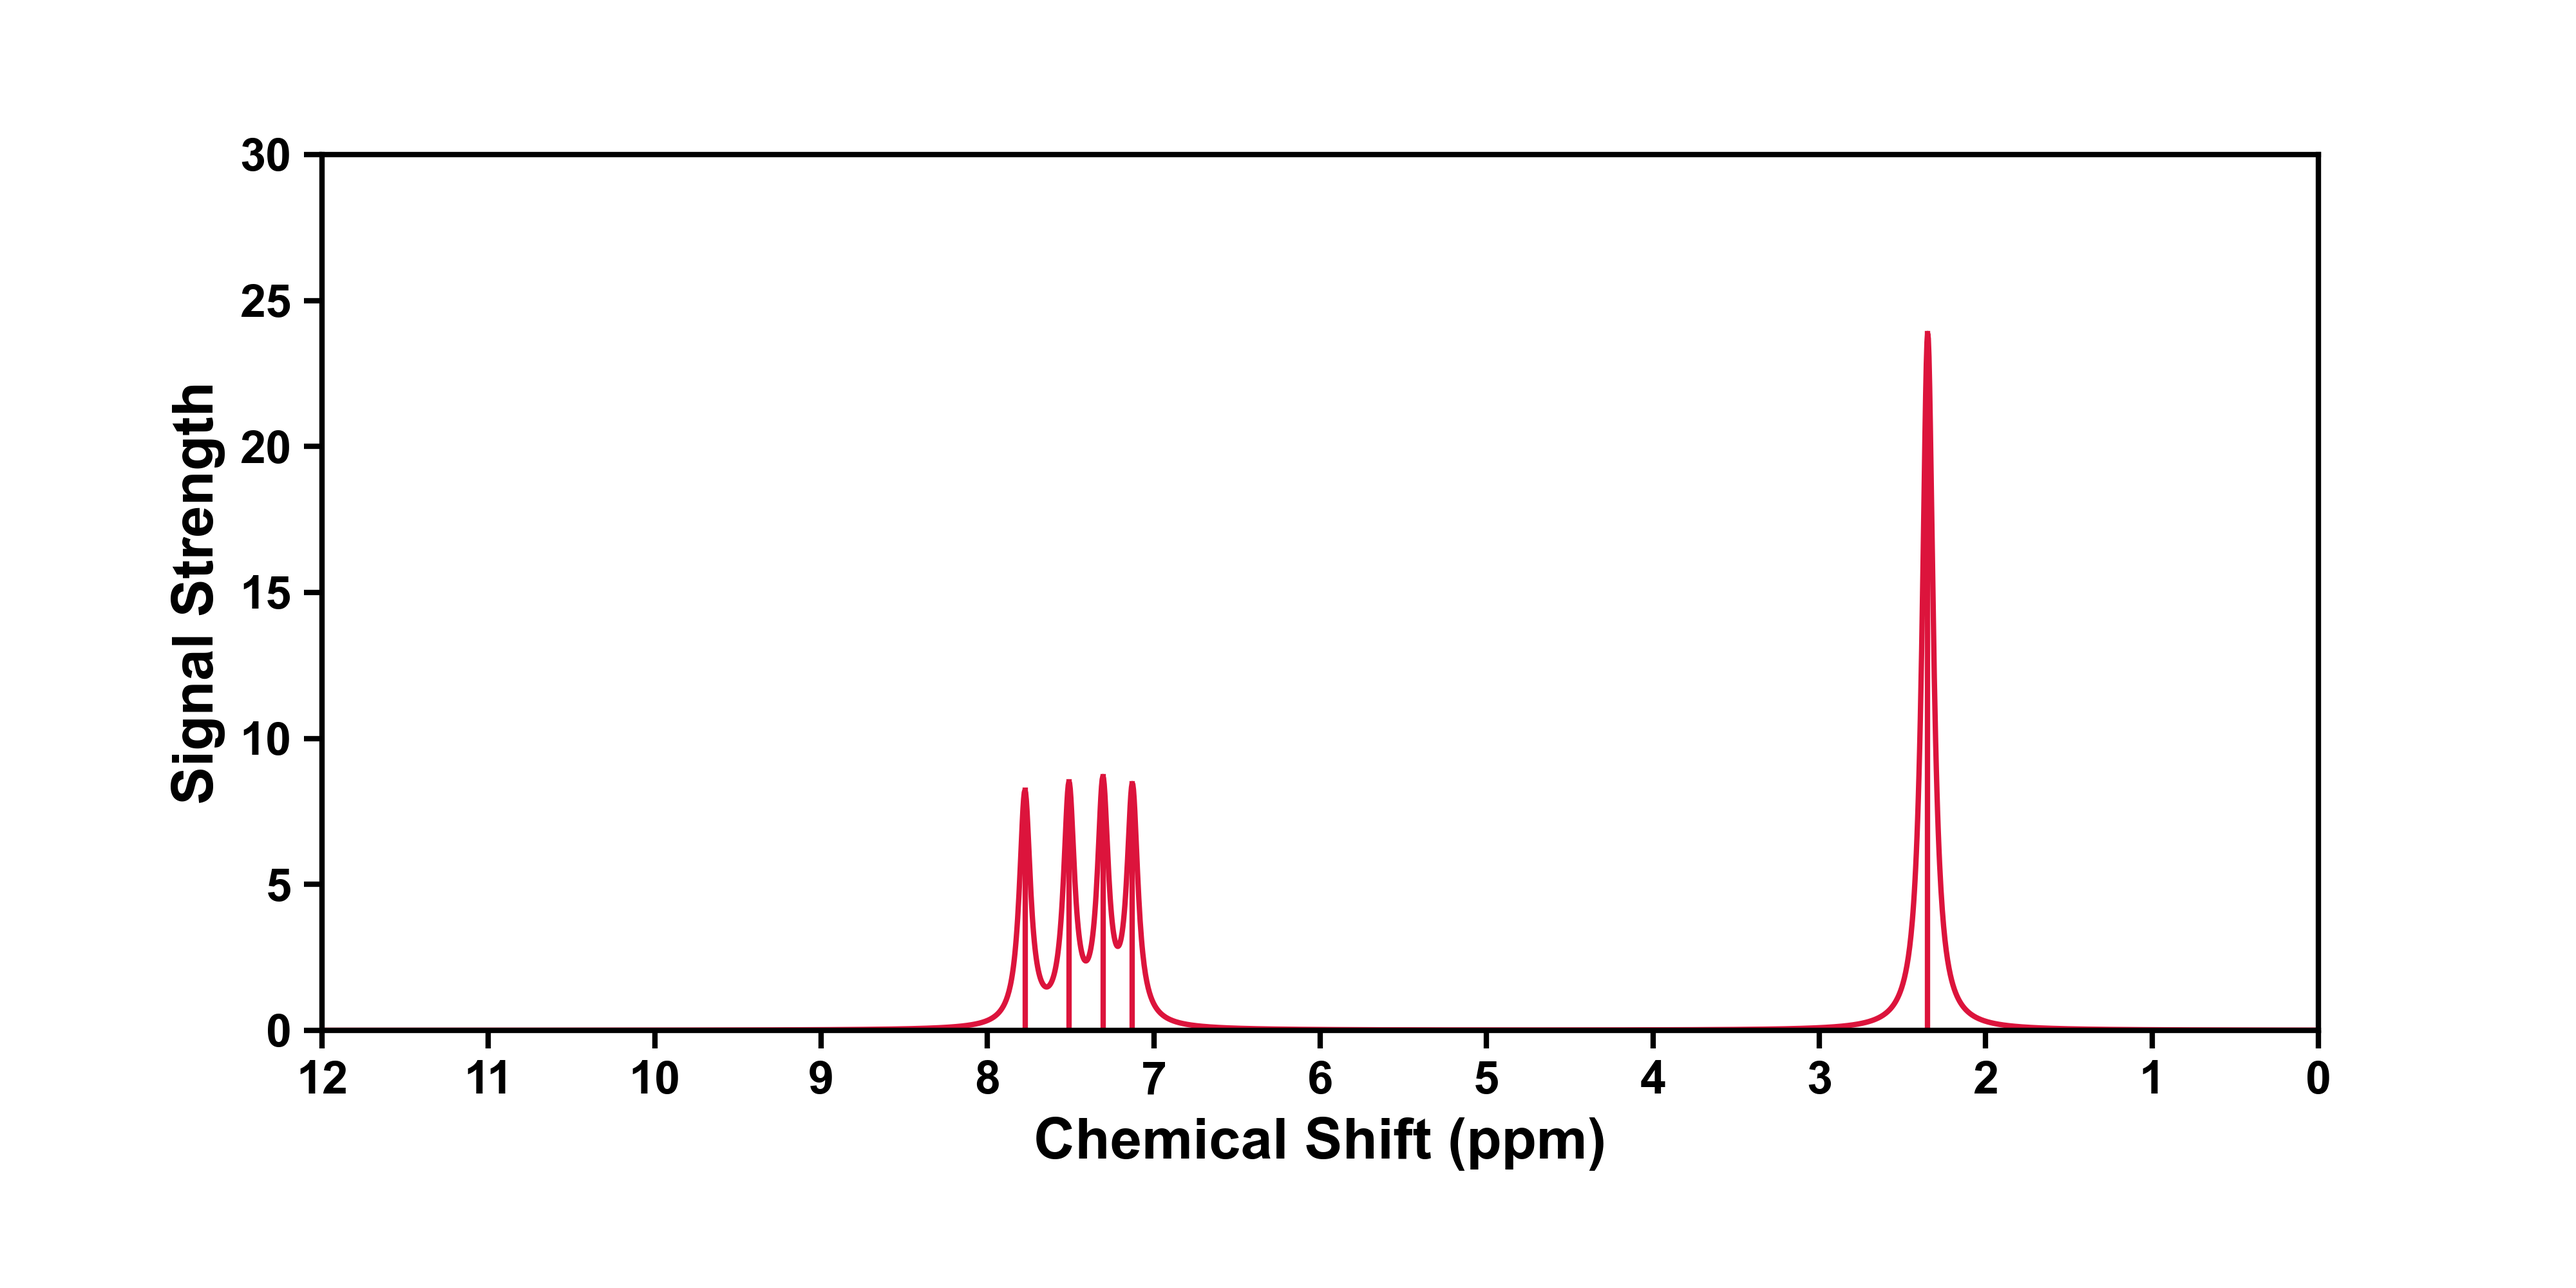
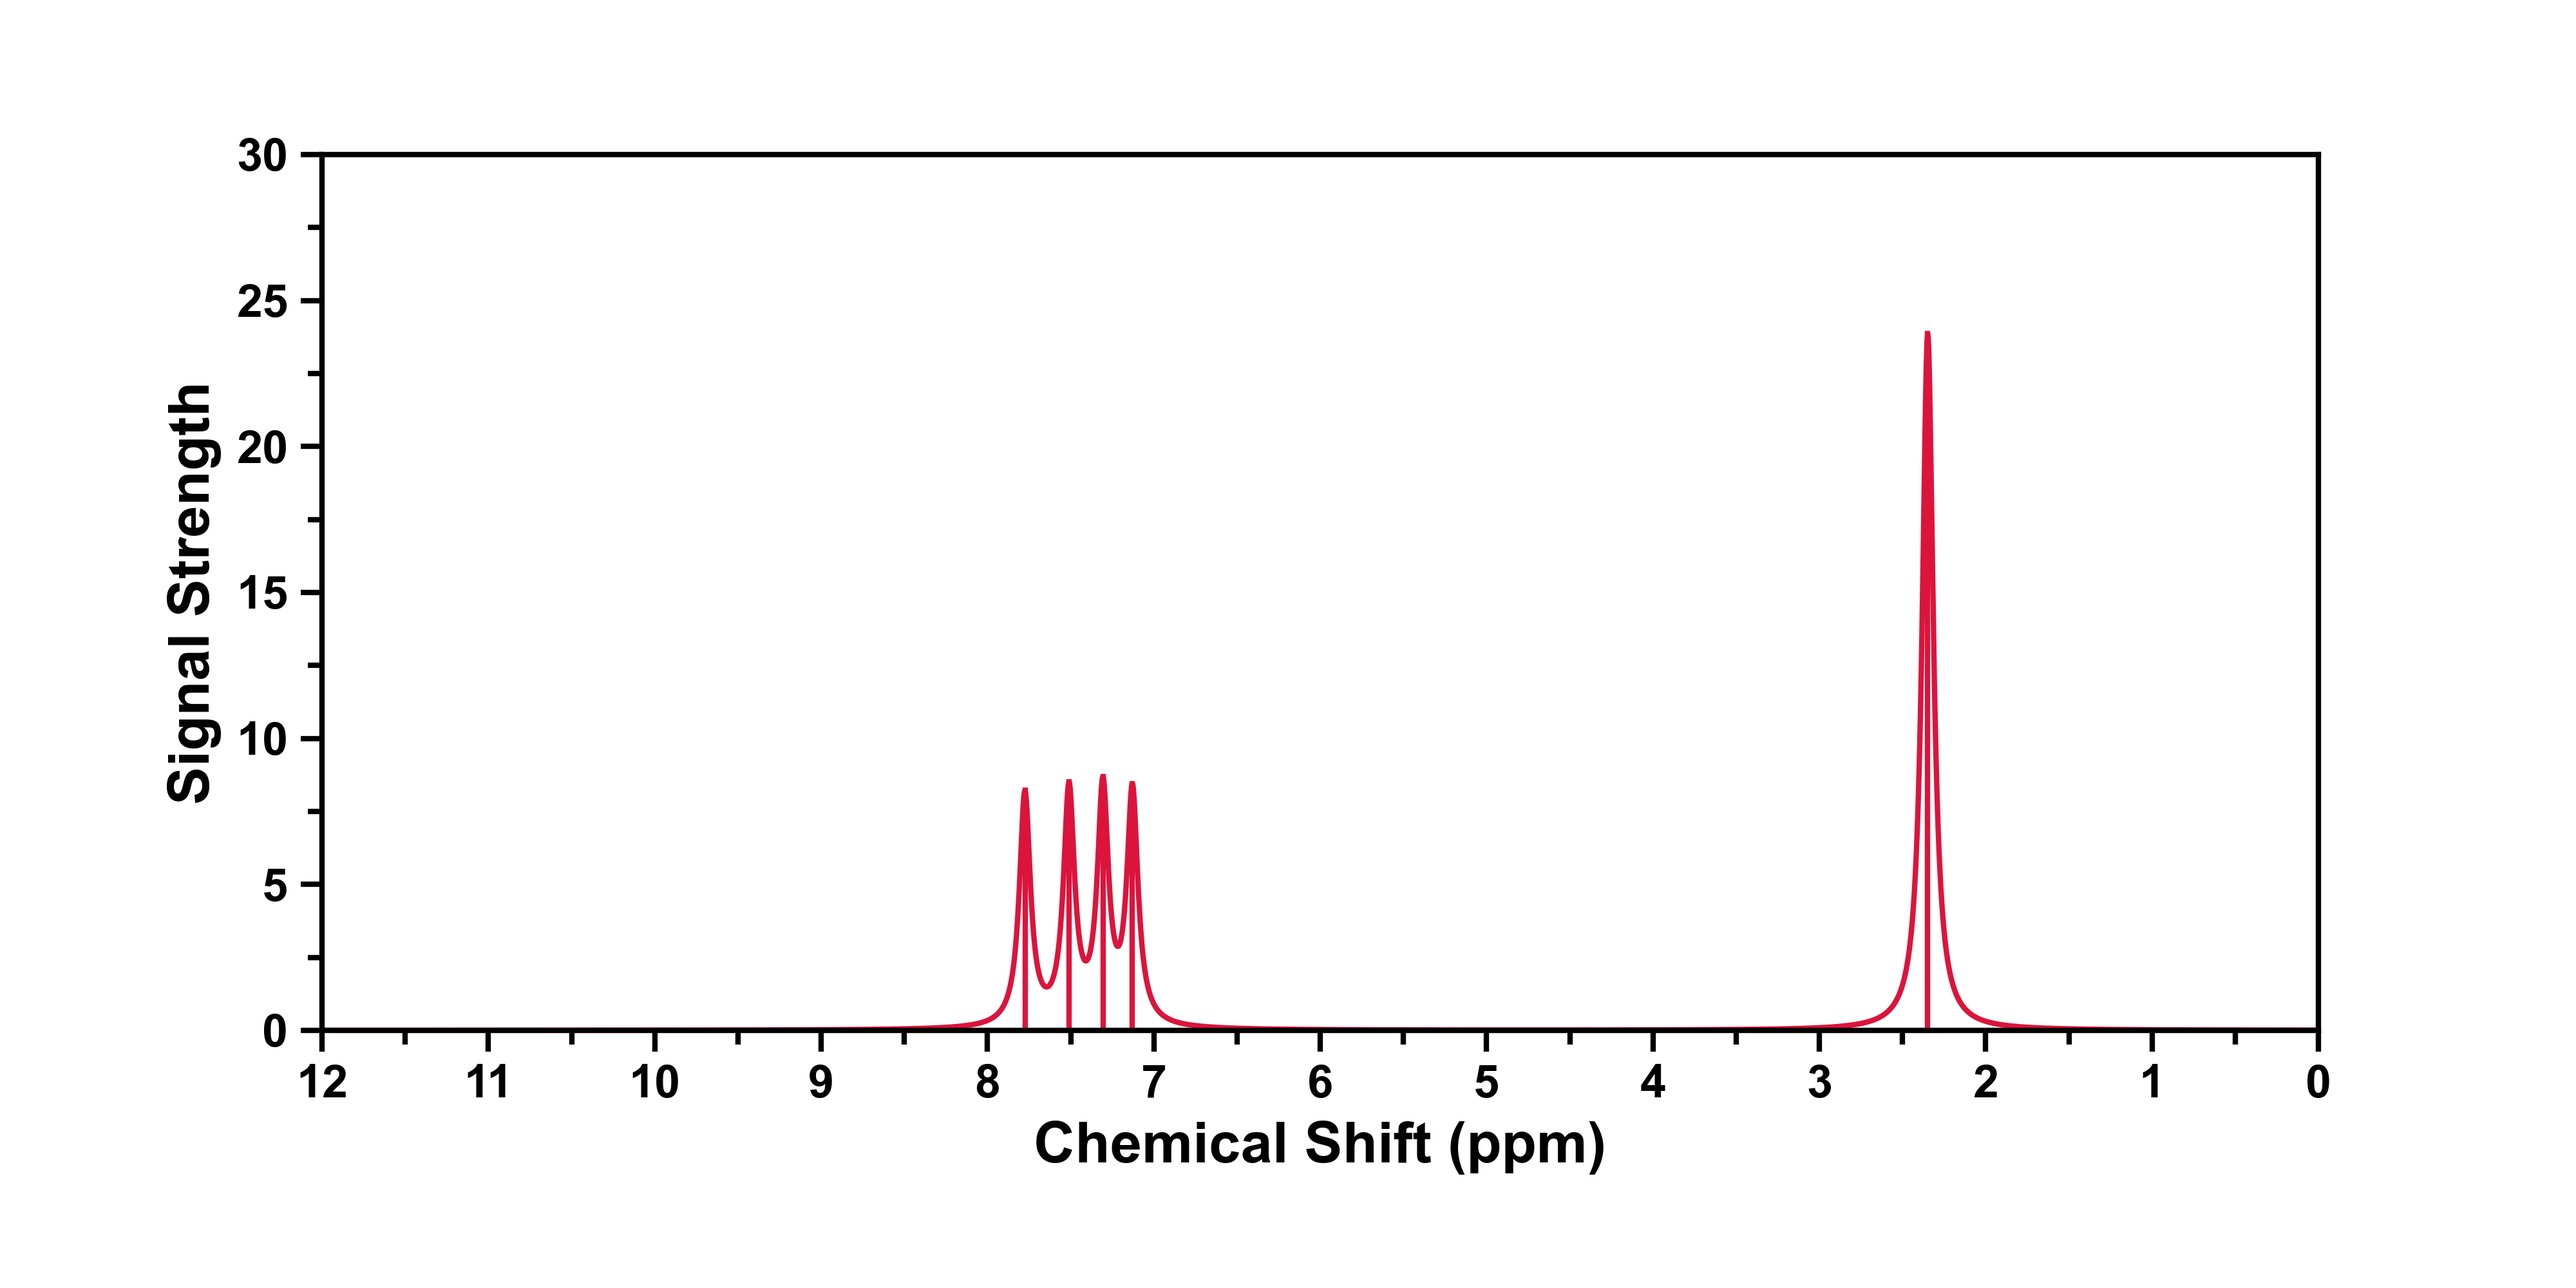
update readme

diff --git a/src/Spectrum/spectrum_NMR.py b/src/Spectrum/spectrum_NMR.py
@@ -1,6 +1,6 @@
+import numpy as np
 from matplotlib import pyplot as plt
 from matplotlib.ticker import MultipleLocator
-from pandas import DataFrame
 from scipy import signal
 
 from src.Spectrum.spectrum import Spectrum
@@ -9,11 +9,17 @@ from src.Spectrum.spectrum import Spectrum
 class NMRSpectrum(Spectrum):
     def __init__(self):
         super().__init__('NMR')
+        # 设置默认 NMR config
+        self.set_x_limits(12, 0, 1)
+        self.set_y_limits(0, 30, 5)
+        self.set_figure_size(10, 5)
+        self.set_curve_colors("#DC143C")
+        self.set_spike_colors("#DC143C")
+        self.set_save_format("png")
 
-    def plot_spectrum(self, dataframe: DataFrame):
+    def plot_spectrum(self):
         """
         将谱图绘制出来
-        :param dataframe: pandas dataframe
         :return: fig ax
         """
         # 设置全局字体、字重和轴线宽度
@@ -22,13 +28,6 @@ class NMRSpectrum(Spectrum):
             'font.weight': 'bold',
             'axes.linewidth': 1.5
         })
-        # 设置默认 NMR config
-        self.set_x_limits(12, 0, 1)
-        self.set_y_limits(0, 30, 5)
-        self.set_figure_size(10, 5)
-        self.set_curve_colors("#DC143C")
-        self.set_spike_colors("#DC143C")
-        self.set_save_format("png")
 
         # 创建画布和子图对象
         fig, ax = plt.subplots(figsize=self.figure_size, dpi=400)
@@ -44,8 +43,12 @@ class NMRSpectrum(Spectrum):
         ax.xaxis.set_major_locator(x_locator)
         ax.yaxis.set_major_locator(y_locator)
 
+        ax.xaxis.set_minor_locator(MultipleLocator(self.x_limits[2] / 2))
+        ax.yaxis.set_minor_locator(MultipleLocator(self.y_limits[2] / 2))
+
         # 设置 x、y 轴的刻度标签和字体大小
-        ax.tick_params(axis='both', which='major', labelsize=13, width=1.5, length=5)
+        ax.tick_params(axis='both', which='major', labelsize=13, width=1.5, length=6)
+        ax.tick_params(axis='both', which='minor', width=1.5, length=4)
         # 将刻度标签加粗
         for label in ax.xaxis.get_ticklabels():
             label.set_fontweight('bold')
@@ -53,11 +56,12 @@ class NMRSpectrum(Spectrum):
             label.set_fontweight('bold')
 
         # 绘制 curve
-        ax.plot(dataframe['x'], dataframe['y'], linewidth=1.5, color=self.curve_colors)
+        ax.plot(self.dataframe['x'], self.dataframe['y'], linewidth=1.5, color=self.curve_colors)
         # 绘制 spike
-        peaks, _ = signal.find_peaks(dataframe['y'])
+        peaks, _ = signal.find_peaks(self.dataframe['y'])
         for i in peaks:
-            ax.plot([dataframe['x'][i], dataframe['x'][i]], [0, dataframe['y'][i]], color=self.spike_colors, linewidth=1.5)
+            ax.plot([self.dataframe['x'][i], self.dataframe['x'][i]], [0, self.dataframe['y'][i]],
+                    color=self.spike_colors, linewidth=1.5)
 
         # 添加坐标轴标签
         ax.set_xlabel('Chemical Shift (ppm)', fontweight='bold', fontsize=16)
@@ -67,6 +71,5 @@ class NMRSpectrum(Spectrum):
         fig.subplots_adjust(bottom=0.2)
 
         return fig, ax
-
 
 

diff --git a/src/Spectrum/spectrum.py b/src/Spectrum/spectrum.py
@@ -1,9 +1,11 @@
+import numpy as np
 from pandas import DataFrame
 
 
 class Spectrum:
     def __init__(self, spectrum_type):
         self.spectrum_type = spectrum_type
+        self.dataframe = None
         self.x_limits = None
         self.y_limits = None
         self.figure_size = None
@@ -11,15 +13,22 @@ class Spectrum:
         self.spike_colors = None
         self.save_format = None
 
-    def plot_spectrum(self, dataframe: DataFrame):
+    def load_dataframe(self, dataframe):
+        """
+        load dataframe in the spectrum
+        :param dataframe: dataframe to load
+        :return:
+        """
+        self.dataframe = dataframe
+
+    def plot_spectrum(self):
         """
         将谱图绘制出来
-        :param dataframe: pandas dataframe
         :return: fig ax
         """
         raise NotImplementedError
 
-    def set_x_limits(self, lower, upper, spacing):
+    def set_x_limits(self, lower=None, upper=None, spacing=None):
         """
         设置 X 轴的上下限
         :param lower: 下限
@@ -30,7 +39,7 @@ class Spectrum:
         self.x_limits = (lower, upper, spacing)
         print(f'Setting X-axis limits to ({lower}, {upper}, {spacing})...')
 
-    def set_y_limits(self, lower, upper, spacing):
+    def set_y_limits(self, lower=None, upper=None, spacing=None):
         """
         设置 Y 轴的上下限
         :param lower: 下限
@@ -38,6 +47,7 @@ class Spectrum:
         :param spacing: 刻度间隔
         :return:
         """
+
         self.y_limits = (lower, upper, spacing)
         print(f'Setting Y-axis limits to ({lower}, {upper}, {spacing})...')
 
@@ -77,5 +87,4 @@ class Spectrum:
         """
         self.save_format = format_type
         print(f'Setting save format to {format_type}...')
-
 

diff --git a/src/Spectrum/spectrum_IR.py b/src/Spectrum/spectrum_IR.py
@@ -6,20 +6,6 @@ from src.Spectrum.spectrum import Spectrum
 
 class IRSpectrum(Spectrum):
     def __init__(self):
-        super().__init__('NMR')
+        super().__init__('IR')
 
-    def plot_spectrum(self, dataframe: DataFrame):
-        # 将 NMR 谱图绘制出来
-        # 设置全局字体、字重和轴线宽度
-        plt.rcParams.update({
-            'font.family': 'Arial',
-            'font.weight': 'bold',
-            'axes.linewidth': 1.5
-        })
 
-        # 创建画布和子图对象
-        fig, ax = plt.subplots(figsize=self.figure_size)
-
-        fig.plot(dataframe['x'], dataframe['y'])
-
-        return fig, ax

diff --git a/tests/test_spectrum.py b/tests/test_spectrum.py
@@ -5,7 +5,9 @@ from src.Spectrum.spectrum_factory import SpectrumFactory
 def test():
     data = ParserFactory.create_parser("../data/NMR_curvewei.txt").parse()
     print(data)
-    fig, ax = SpectrumFactory.create_spectrum("NMR").plot_spectrum(data)
+    nmr_spectrum = SpectrumFactory.create_spectrum("NMR")
+    nmr_spectrum.load_dataframe(data)
+    fig, ax = nmr_spectrum.plot_spectrum()
     fig.show()
 
 

diff --git a/README.md b/README.md
@@ -3,6 +3,68 @@
 </h1><br>
 
 
-KimariDraw 是一个用来绘制 NMR、IR 等光谱的 Python 程序。
+KimariDraw 是一款基于 Python 开发的开源绘图软件，主要用来处理著名波函数分析程序 [Multiwfn](http://sobereva.com/multiwfn/) 绘制光谱产生的数据，并依据这些数据重新绘制相对美观的各种光谱图。有关 Multiwfn 的
+
+KimariDraw 目前支持使用 Multiwfn 绘制 NMR、IR 等光谱导出的曲线数据，即 Multiwfn 生成的文本文件，也支持 Excel 文件（必须安装约定进行配置）。KimariDraw 可支持修改图片大小、保存格式、曲线颜色等功能。
+
+## 安装
+
+本项目已经开源在 Github 上，您可以通过以下步骤安装 KimariDraw：
+
+1. 首先，您需要确保已经安装了 Python 环境和 pip 包管理工具。如果您还没有安装它们，请先安装它们。
+
+2. 下载 KimariDraw 源代码：
+
+```shell
+git clone https://github.com/kimariyb/kimariDraw.git
+```
+
+3. 进入 KimariDraw 目录并安装依赖：
+
+```shell
+cd kimariPlot
+pip install -r requirements.txt
+```
+这将自动安装 KimariDraw 所需的 numpy、matplotlib 和 scipy 等依赖项。请注意，如果您已经安装了这些依赖项，则可以跳过此步骤。
+
+## 使用
+
+要使用 KimariDraw，请执行以下步骤：
+
+**请注意：在正式运行前，请确保已经安装了 Python 和 pip 包管理工具，以免程序报错！**
+
+1. 在命令行中导航到 KimariDraw 目录。
+
+2. 运行 main.py：
+
+```shell
+python main.py
+```
+
+3. 输入 Multiwfn 输出的文本文件 `.txt` 或 Excel 文件 `.xlsx` 的路径。例如本项目中的 `data\NMR_curvewei.txt` 文件。
+
+```shell
+data/NMR_curvewei.txt
+```
+
+4. 选择 `1. NMR`，绘制 NMR 谱。
+
+<img src="figure/nmr.png">
+
+## 鸣谢
+
+在开发 KimariDraw 时，主要使用了以下 Python 开源模组，在这里对开发这些模组的工作人员表示感谢。
+
+- **numpy**
+- **pandas**
+- **matplotlib**
+- **openpyxl**
+- **scipy**
+
+同时也感谢 Multiwfn 和其开发者卢天老师，为众多计算化学玩家带来这样一款，实用、轻便、功能强大的波函数分析软件。
+
+## 许可证
+
+KimariDraw 基于 MIT 许可证开源。这意味着您可以自由地使用、修改和分发代码。有关更多信息，请参见 LICENSE 文件。
 
 
